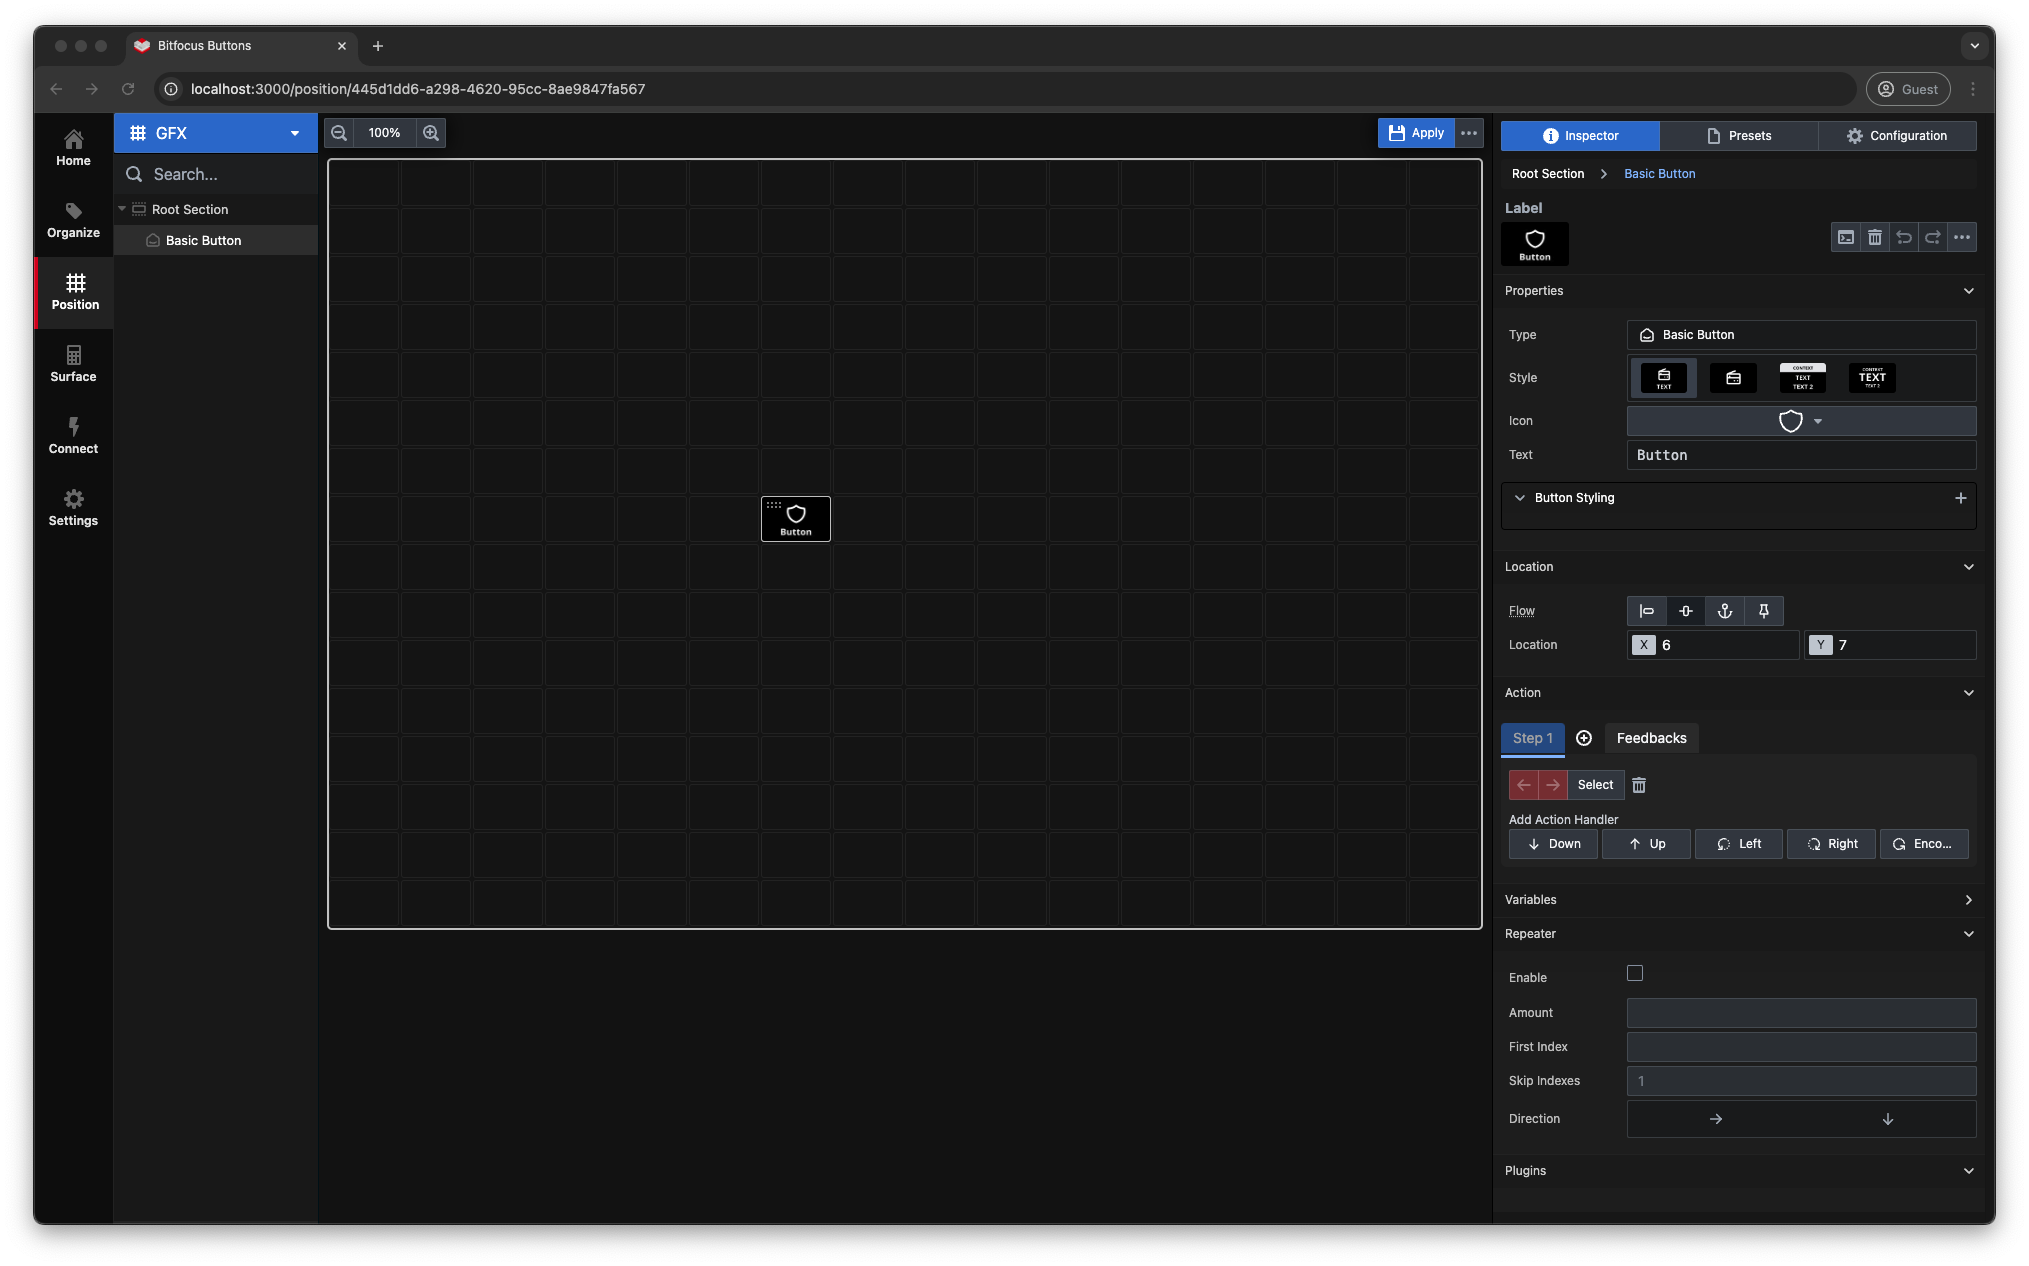
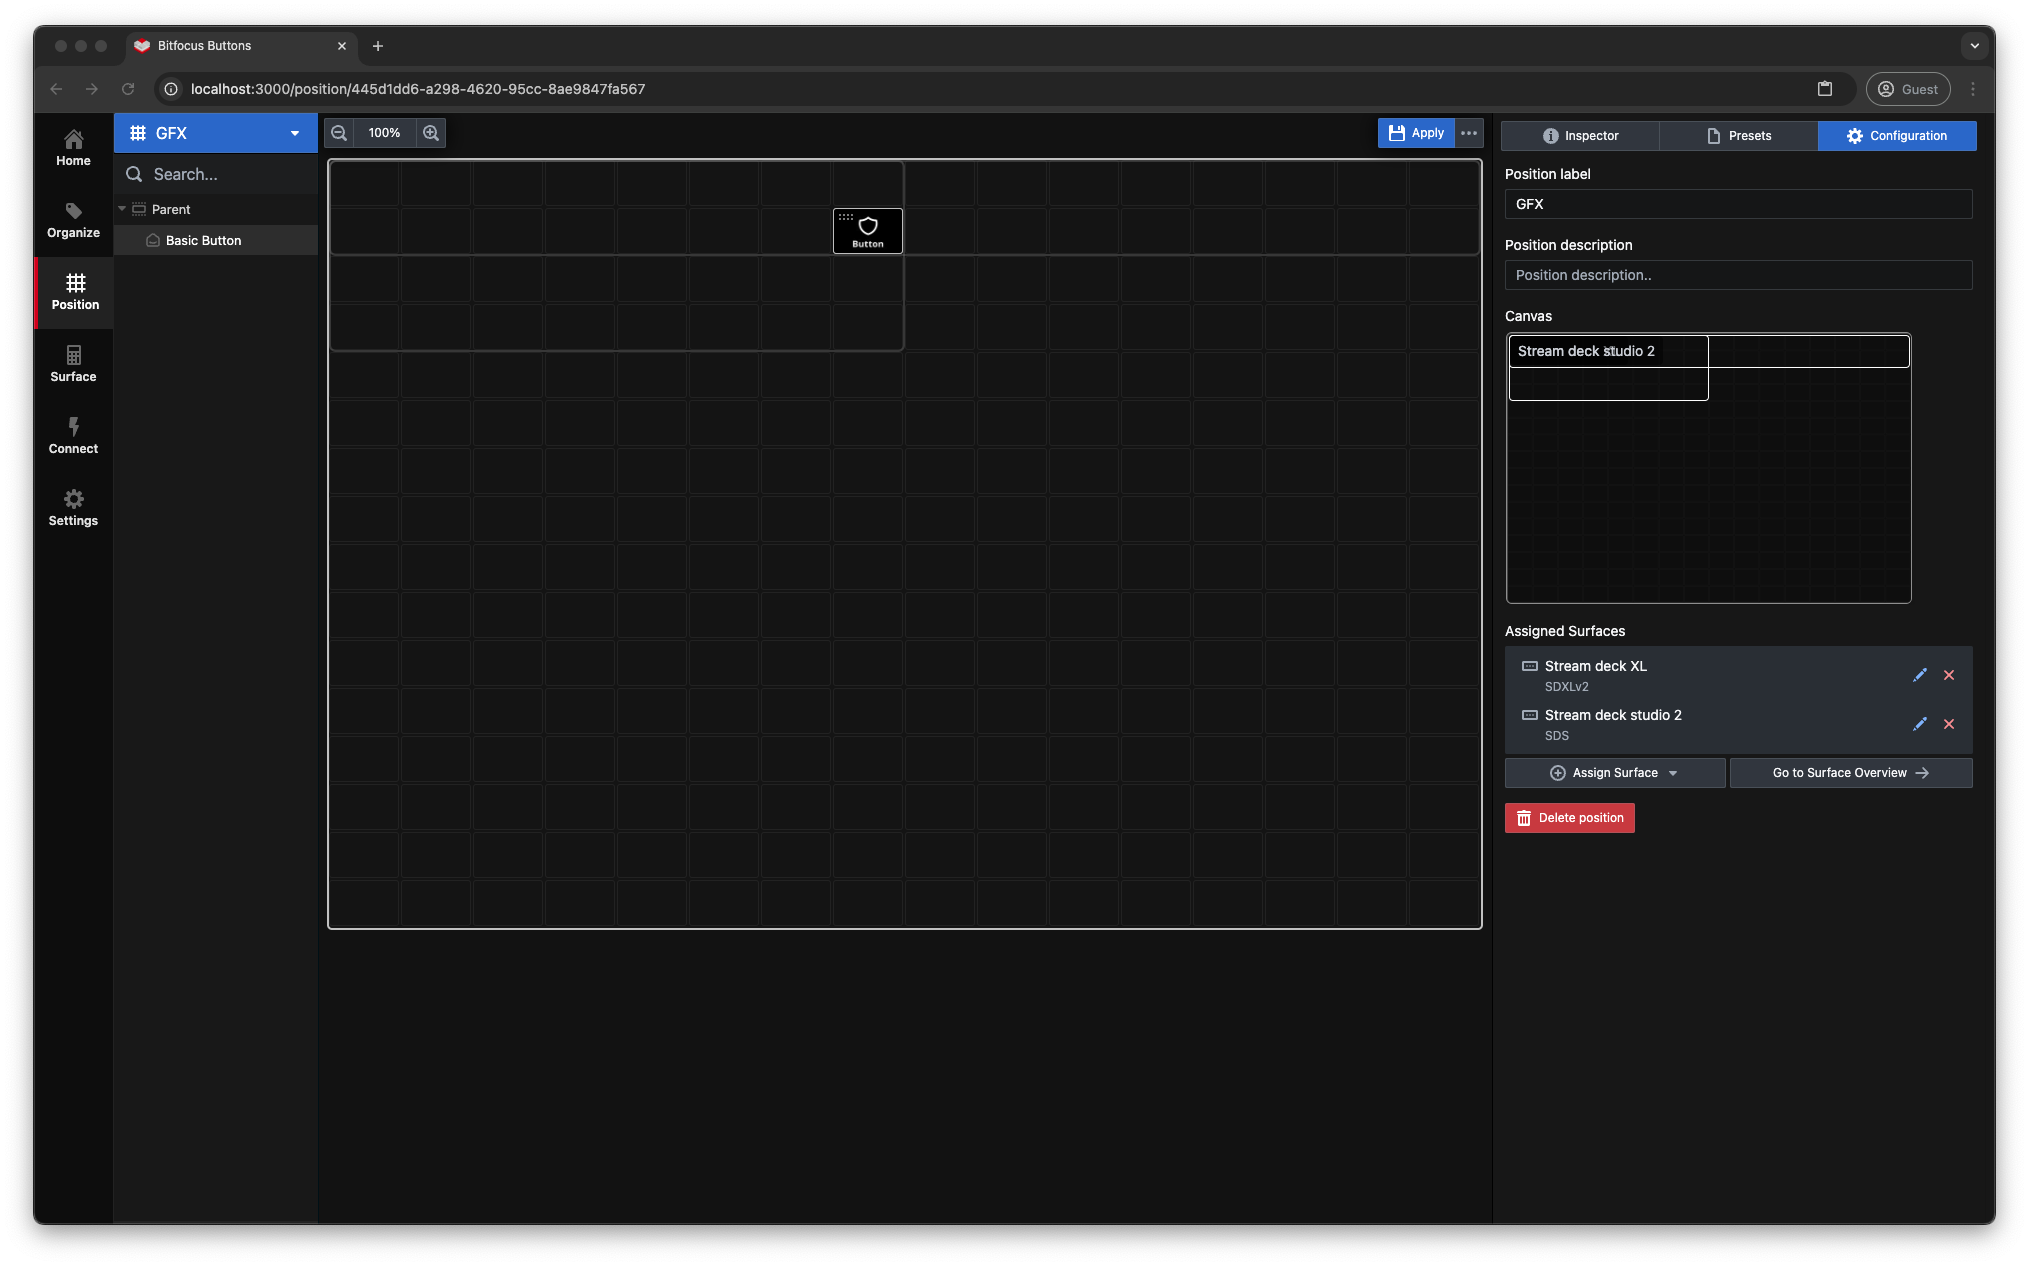
Added asigning surfaces to 1_the_window.md

diff --git a/docs/3_positions/1_the_window.md b/docs/3_positions/1_the_window.md
@@ -5,12 +5,21 @@ You will then be presented with a dialog box to enter a label for the position. 
 ![Create position](images/position/create_position.png 'create poition')
 Click Create position, and the position editor window will open.
 ![Position editor window](images/position/position_editor_window.png 'position editor window')
-The position editor window has 3 panes the left which is the Navigation tree, the middle which is a 16x16 button grid by default and the right which contains Inspector, Presets and Configuration tabs.
+The position editor window has 3 panes the left which is the Navigation tree, the middle which is a 16x16 button grid called Canvas and the right which contains Inspector, Presets and Configuration tabs.
 ![Inspector](images/position/inspector.png 'inspector')
 The inspector will show the grid size of 16W and 16H let's leave it at that for now, but it can be changed at any time.
+Let's first go to the configuration tab
+![Configuration](images/position/configuration_1.png 'Configuration')
+Here we can change the name, give a description of the position and assign surfaces to the position.
+![Configuration_2](images/position/configuration_2.png 'Configuration_2')
+`Click` on `Assign Surface`and select the appropriate surface.
+![Configuration 3](images/position/configuration_3.png 'Configuration 3')
+You will notice that the Surface appears in the canvas above in the configuration tab and a similar outline appears in the center pane canvas, this shows you which part of the canvas the surface will cover. You can grab the "surface" in the configuration tab to move it in to the position you want on the canvas, Let's quickly ad another surface.
+![Configuration 4](images/position/configuration_4.png 'Configuration 4')
+As you see there is now 2 `Surfaces` assigned to the `Position` and at the moment they overlap, you will also notice that the outline matches the number of buttons of the assigned `Surface` STREAM DECK STUDIO has 2 rows of 16 buttons and the STREAM DECK XL has 4 rows of 8 buttons. Any combination of `Surfaces` are allowed to be combined on the same canvas.
 ![Click inside any rectangle](images/position/click_inside_any_rectangle.png 'Click inside any rectangle')
 `Click` inside any rectangle, the outline will be dashed to show that it's selected. Now you can `Right click` to bring up the context menu from here you can create a **Button**, **Section**, **Shift Section**, **Popover** and **Plugins** Paste and Clear Selection are self-explanatory, but we will go through the rest.
-![alt text](images/position/right_click.png)
+![Right Click](images/position/right_click.png 'Right Click')
 `Click`on **Button**
 ![Click on Button](images/position/button_on_grid.png 'Click on Button')
 You have now created a **Button**
